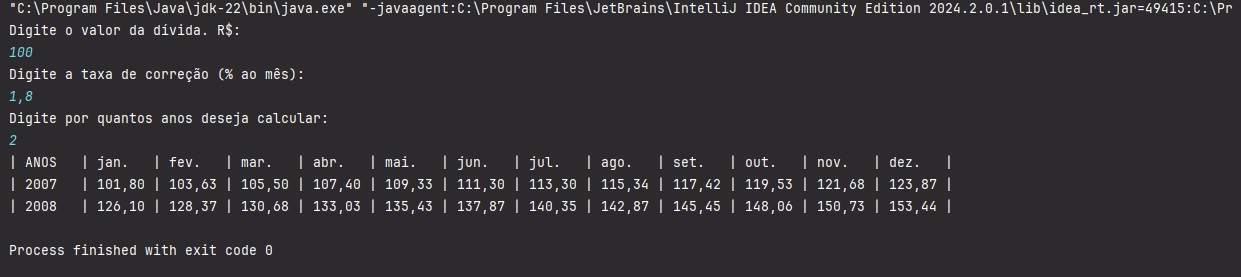
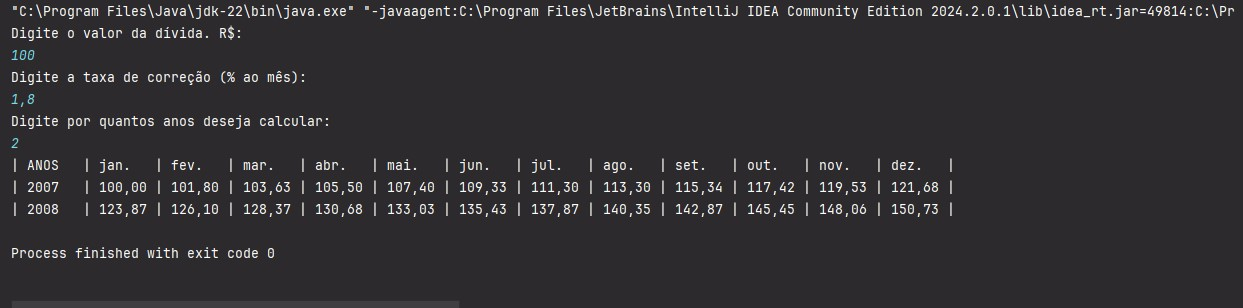
"Solução Q60 correcão"

diff --git a/lista03/src/q60/Main.java b/lista03/src/q60/Main.java
@@ -49,7 +49,8 @@ public class Main {
         for (int i = 0; i < anosACalcular; i++) {
             System.out.printf("| %-" + larguraAno + "d |", anoInicial + i);
             for (int j = 0; j < 12; j++) {
-                calculo.aplicaCorrecao();
+                if(i!=0 || j!=0)
+                    calculo.aplicaCorrecao();
                 System.out.printf(" %-" + larguraValor + ".2f |", calculo.getValorAtualizado());
             }
             System.out.println();
